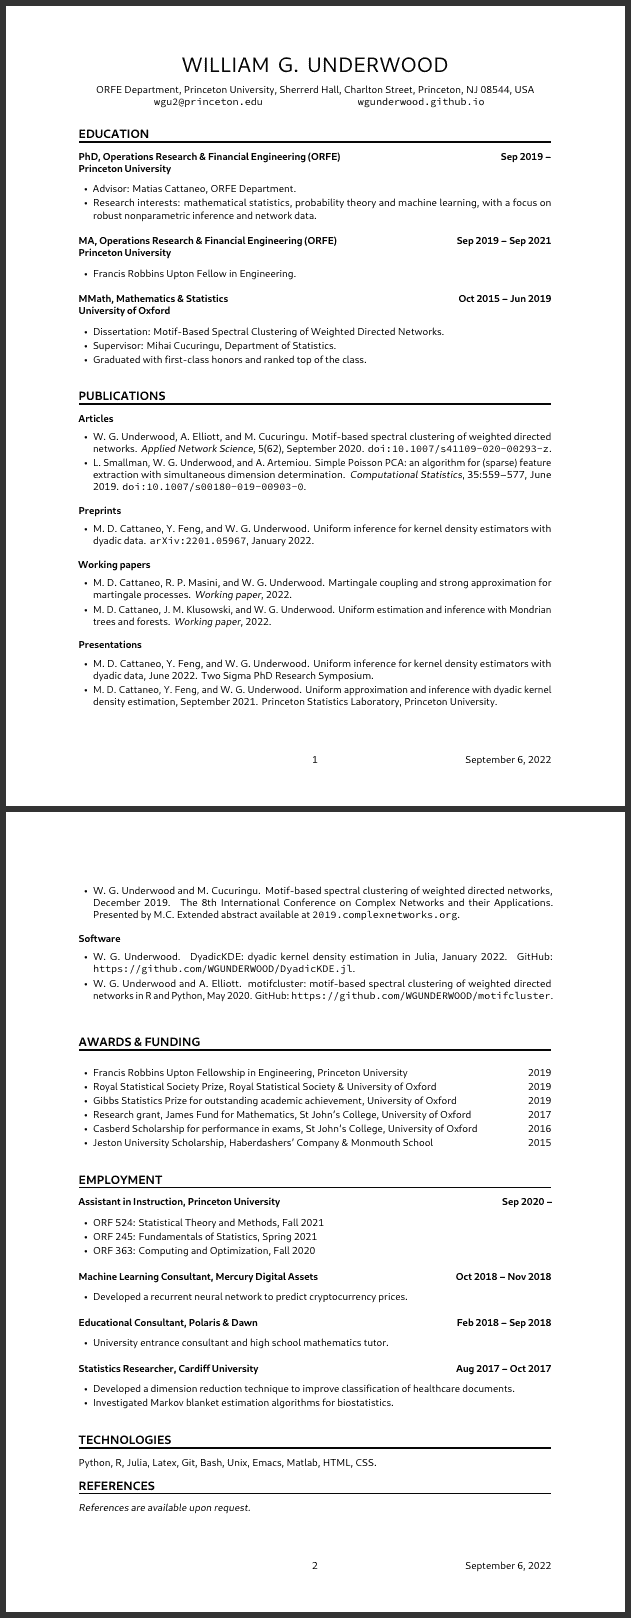
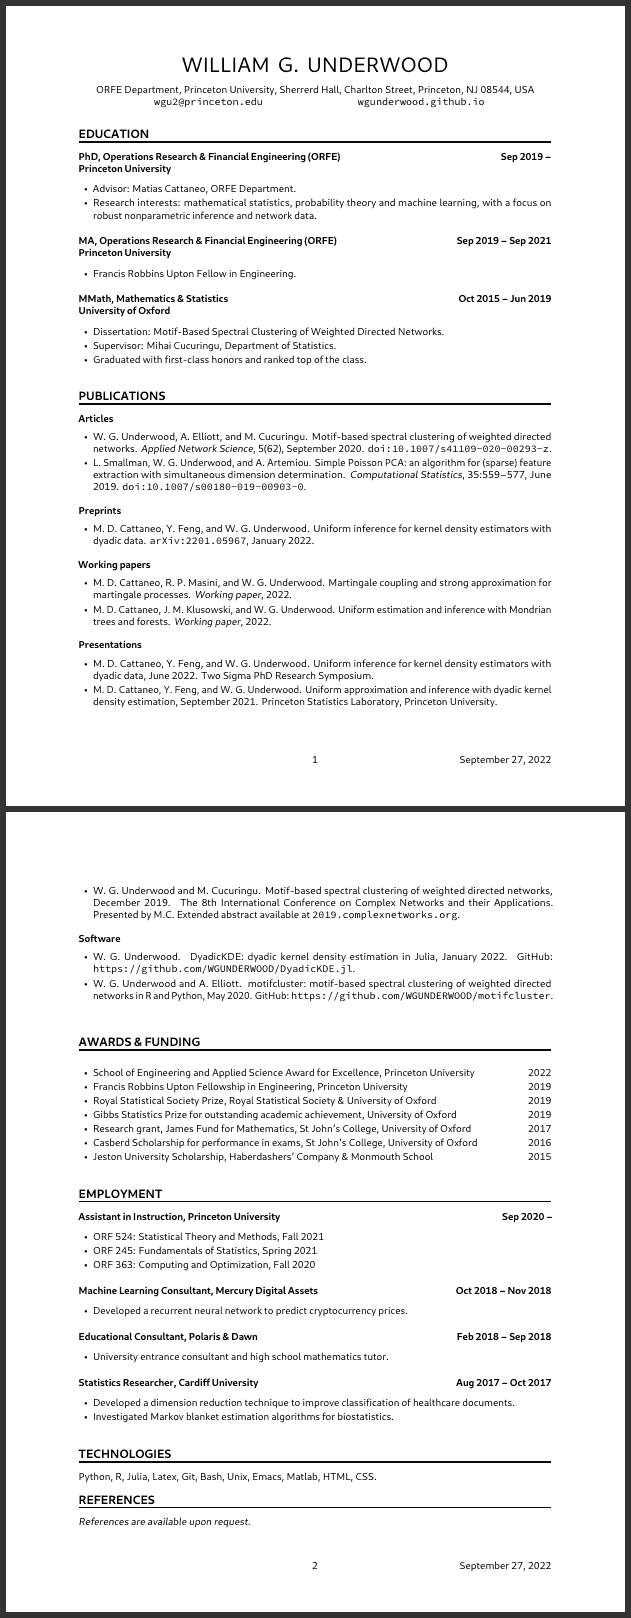
added SEAS award

Changed region(s): [[0.1204, 0.6489, 0.7528, 0.958], [0.6624, 0.7108, 0.8732, 0.8962]]

diff --git a/WGUnderwood.tex b/WGUnderwood.tex
@@ -125,6 +125,9 @@
 \cvsection{AWARDS \& FUNDING}
 
 \begin{itemize}
+  \item School of Engineering and Applied Science Award for Excellence,
+    Princeton University
+    \hfill 2022%
   \item Francis Robbins Upton Fellowship in Engineering,
     Princeton University
     \hfill 2019%
